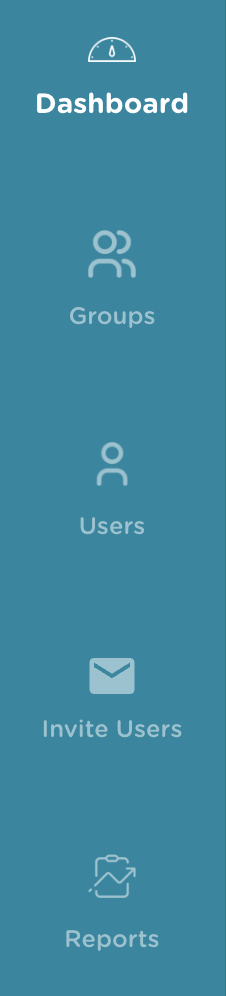
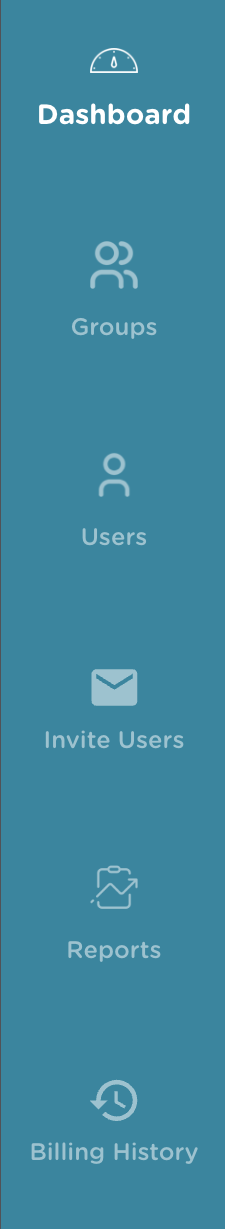
updated for new changes(user stats, billing history, billing settings)

diff --git a/docs/web-dashboard.md b/docs/web-dashboard.md
@@ -62,7 +62,7 @@ You can click on a group to get information on the group and the individuals wit
 
 The left menu bar:
 
-<img src="./images/web-dashboard/navBar.png" align="left" height="265"/>
+<img src="./images/web-dashboard/navBar.png" align="left" height="320"/>
 
     - Dashboard: Takes you back to the organizational dashboard
 
@@ -73,6 +73,8 @@ The left menu bar:
     - Invite Users: Links to a page where you can invite new users to the platform
 
     - Reports: Links to a data-rich page for detailed information on user HRV
+
+    - Billing History: Provides a record of all invoices associated with your organization’s subscription.
 
 <br clear="left"/>
 
@@ -181,28 +183,157 @@ A table listing all invited users along with their current status:
 
 You can monitor and manage invitations from this table at any time.
 
-## Action Buttons on the Users Page
+## Users Management Page
 
-On the far right of each row in the Users list, you'll find **Action buttons** that allow you to manage individual users:
+**Path:** Organization > Users  
+**Purpose:** This page is the central hub for administrators to view, manage, and analyze all users within their organization. It provides both high-level metrics and a detailed, actionable list for comprehensive user administration.  
+**Primary User Role:** Organization Administrators.
 
-- **Delete a User**  
-  Click the **trash can icon** to permanently remove a user from the organization.
+---
 
-- **Edit User Details / Set Admin Permissions**  
-  Click the **pencil icon** to open the **Edit User** screen, where you can:
+#### Page Overview
 
-  - Update user information (name, username, etc.).
-  - Grant **admin access** to the user by checking the **Admin** box.
+The Users page combines a dashboard of key metrics with a powerful, sortable, and searchable data table. It is the starting point for all user-related administrative tasks, from auditing activity to onboarding new members.
 
-  > Admin users have the ability to:
-  >
-  > - Add and manage users and groups
-  > - View HRV data across all users and groups in the organization
+---
+
+#### User Summary Metrics (Top Section)
+
+At the top of the page, you will see a quick overview of user counts in your organization:
+
+- **Active Users** – The number of users currently using the platform.
+- **Internal Users** – Members of your organization (e.g., staff, team).
+- **External Users** – Invited users outside your organization (e.g., clients, partners).
+- **Total Users** – Sum of internal and external users.
+
+#### Global Action Buttons
+
+- **IMPORT:** Initiates a bulk user import process, typically via a CSV file upload. This is efficient for onboarding large teams.
+- **+ ADD NEW:** Opens a dialog or form to manually create a single new user account.
+
+---
+
+#### Users Data Table
+
+The core of the page is a detailed table listing every user in the organization. The table can be sorted by clicking on column headers and is filtered using the search bar.
+
+**Search Bar:** The `Search users...` field allows you to quickly find users by their name, email, or other attributes.
+
+#### Users Table Columns
+
+| Column                 | Description                                                                                                                                                                                                       |
+| :--------------------- | :---------------------------------------------------------------------------------------------------------------------------------------------------------------------------------------------------------------- |
+| **Name**               | The full name of the user. This is the primary identifier.                                                                                                                                                        |
+| **Email**              | The user's primary email address. This field may be hidden for some users due to privacy settings.                                                                                                                |
+| **User type**          | The classification of the user. `Internal` denotes a standard employee, `Admin` is an internal user with elevated privileges, and `External` is a user from outside the organization (e.g., a client or partner). |
+| **Last activity**      | The timestamp of the user's most recent action in the system. A default date (e.g., 1 Jan 1900) indicates a user who has never been active.                                                                       |
+| **Last activity type** | The category of the last recorded action (e.g., "Login"). `N/A` indicates that no activity has been recorded for the user.                                                                                        |
+| **Signup date**        | The date the user account was officially created. This is a reliable metric for tracking onboarding.                                                                                                              |
+| **Payer**              | Defines the entity responsible for the user's billing. `Org` means the organization is billed, while `User` means the individual is responsible for payment.                                                      |
+| **Actions**            | Contains an icon menu for user management operations, such as **Edit** (to modify details and permissions) and **Delete** (to permanently remove the user).                                                       |
+
+---
+
+#### Common Use Cases
+
+#### 1. Onboarding a New Team
+
+**Goal:** Add a department of 20 new employees.
+**Action:** Use the **IMPORT** function to upload a CSV file with all user details instead of creating each account individually.
+
+#### 2. Auditing User Engagement
+
+**Goal:** Identify inactive accounts to free up licenses.
+**Action:** Scan the **Last activity** column for outdated timestamps or placeholder dates (`1 Jan 1900`). Use the **Actions** menu to deactivate or delete these users.
+
+#### 3. Managing External Collaboration
+
+**Goal:** Review and manage access for external partners.
+**Action:** Note the **EXTERNAL USERS** count. Filter the table by `External` user type to see all partners and review their **Last activity** to ensure access is still needed.
+
+#### 4. Promoting a User to Administrator
+
+**Goal:** Grant a trusted user full administrative capabilities.
+**Action:**
+
+1. Locate the user in the table.
+2. Click the **Edit** action in their row.
+3. In the Edit User form, check the **"Organization Admin"** option.
+4. Upon saving, their **User type** in this table will update from `Internal` to `Admin`.
+
+#### 5. Investigating Billing
+
+**Goal:** Understand who is responsible for paying for user licenses.
+**Action:** Review the **Payer** column. A high number of `Org` users means the company bears most costs. `User` indicates a bring-your-own-license model.
+
+---
+
+#### Visual Reference
 
 <div align=center>
-<img width="200" src="./images/web-dashboard/actionButtons.png"/>
-<img width="800" height="400" src="./images/web-dashboard/editUser.png"/>
+<img width="450" src="./images/web-dashboard/usersPage.png"/>
 </div>
+
+## Managing Users with Action Buttons
+
+On the far right of each row in the Users list, you'll find **Action buttons** that allow you to manage individual users.
+
+---
+
+#### **Delete a User**
+
+Click the **trash can icon** (![trash can icon]) to permanently remove a user from the organization.
+
+> **Warning:** This action is typically irreversible. Please confirm that you intend to delete the user before proceeding.
+
+---
+
+#### **Edit User Details / Set Permissions**
+
+Click the **pencil icon** (![pencil icon]) to open the **Edit User** screen. This allows you to modify the user's profile, define their access permissions, and configure billing settings.
+
+<div align="center">
+<img width="100" src="./images/web-dashboard/actionButtons.png""/>
+<img width="400" src="./images/web-dashboard/editUser.png"/>
+</div>
+
+The Edit User form is divided into several sections:
+
+#### **1. Personal Information**
+
+Update the core identifying details of the user.
+
+- **First Name & Last Name:** Modify the user's legal or preferred name.
+- **Date of Birth (DOB):** Edit the user's birth date in `MM/DD/YYYY` format.
+- **Gender:** Update the user's gender identity from the dropdown menu (e.g., Male, Female, Non-binary).
+
+#### **2. Access & Permissions**
+
+Control what the user can see and do within the system. This is critical for security and workflow management.
+
+- **Groups\*:** Assign the user to one or more groups (e.g., "Sales," "Customer Service"). Groups determine access to specific features, data, and dashboards. This is a required field.
+- **User Role:** Grant elevated permissions to the user.
+  - Check the **Organization Admin** box to make this user an administrator.
+  - > **⚠ Admin Capabilities:** Users with the Organization Admin role will have the ability to:
+    >
+    > - Add, edit, and manage all users and groups within the organization.
+    > - Access and view sensitive data (like HRV) across all users and groups.
+    > - Manage organization-wide settings and billing.
+
+#### **3. Billing Configuration**
+
+Designate the financial responsibility for the user's account.
+
+- **Choose who will be paying:** Select one of the following options:
+  - **Organization:** The company's central billing account will be charged for this user's subscription or usage.
+  - **User:** The individual user will be billed directly, typically via a personal payment method.
+
+#### **Completing the Action**
+
+- **UPDATE:** Click this button to validate and save all changes to the user's profile.
+- **CANCEL:** Click this button to discard any changes and return to the users list.
+
+---
 
 ## Groups Page
 
@@ -287,6 +418,11 @@ If you're a **Group Admin**, follow these steps to add a brand-new user directly
 
 > ✅ Group Admins can manage users directly within their assigned group. See [Creating New Users](#creating-new-users) for more details on user fields.
 
+<div align=center>
+<img width="450" src="./images/web-dashboard/groupUsersPage.png"/>
+<img width="350" src="./images/web-dashboard/addGroupUser.png"/>
+</div>
+
 ---
 
 #### 🏢 Adding New Users to a Group (For Organization Admins)
@@ -301,6 +437,11 @@ Organization Admins cannot add users directly from the org-level dashboard. Here
 6. Click **Submit**.
 
 > ℹ Note: Org Admins must **switch to a group's dashboard** before adding users. We recognize this is not ideal and are working on a future update for direct assignment without switching.
+
+<div align=center>
+<img width="450" src="./images/web-dashboard/usersPage.png"/>
+<img width="350" src="./images/web-dashboard/addUser.png"/>
+</div>
 
 ---
 
@@ -350,6 +491,155 @@ At the top bar of any page in the Organizational Dashboard, you'll find a dropdo
 - Selecting a different organization or group from the list will update the dashboard view to reflect the selected context.
 
 This feature is especially helpful for admins managing multiple groups or organizations under a single account.
+
+## Billing History Page
+
+The **Billing History** page provides a record of all invoices associated with your organization’s subscription. Admins can view past billing activity, check the current payment status, and download invoices for accounting or compliance purposes.
+
+**Accessing the Billing History Page**
+
+- From the Organizational Dashboard, click the **Billing History** icon in the left-hand navigation menu.
+
+<div align=center>
+<img width="750" src="./images/web-dashboard/billingHistory.png"/>
+</div>
+
+---
+
+#### Page Overview
+
+The page consists of two main sections:
+
+1. **User Summary Metrics (Top Section)**  
+   At the top of the page, you will see a quick overview of user counts in your organization:
+
+   - **Active Users** – The number of users currently using the platform.
+   - **Internal Users** – Members of your organization (e.g., staff, team).
+   - **External Users** – Invited users outside your organization (e.g., clients, partners).
+   - **Total Users** – Sum of internal and external users.
+
+   > These counts help you confirm that your subscription matches the number of users in your organization.
+
+2. **Billing Records Table (Main Section)**  
+   A detailed table lists all invoices with the following columns:
+
+   | Column             | Description                                                                                                                                                                                                   |
+   | ------------------ | ------------------------------------------------------------------------------------------------------------------------------------------------------------------------------------------------------------- |
+   | **Billing Email**  | The email address linked to the invoice recipient.                                                                                                                                                            |
+   | **Status**         | The current invoice status: <br> - **Paid**: The invoice has been paid.<br> - **Invoice Sent**: The invoice has been issued but is not yet paid.                                                              |
+   | **Invoice Number** | A unique identifier for the invoice.                                                                                                                                                                          |
+   | **Invoice Date**   | The date the invoice was generated.                                                                                                                                                                           |
+   | **Paid At**        | The date the invoice was paid (empty if unpaid).                                                                                                                                                              |
+   | **Amount**         | The total amount billed.                                                                                                                                                                                      |
+   | **Billing Start**  | The start date of the billing cycle.                                                                                                                                                                          |
+   | **Billing End**    | The end date of the billing cycle.                                                                                                                                                                            |
+   | **Actions**        | Depending on the invoice status, available options: <br> - **Download**: Download a copy of the invoice.<br> - **Pay Now**: Complete payment for unpaid invoices (only visible when status = _Invoice Sent_). |
+
+---
+
+#### Search and Filters
+
+- A search bar is available above the billing history table.
+- You can search invoices by **email, invoice number, or amount** to quickly locate records.
+
+---
+
+#### Billing Settings
+
+The **Billing Settings** button in the top-right corner of the billing history section allows admins to:
+
+- Update payment methods
+- Change the billing contact email
+- Adjust subscription plan details
+
+---
+
+#### Example Use Cases
+
+- **Finance Teams** – Download invoices for bookkeeping, tax filing, or audits.
+- **Admins** – Ensure all invoices are paid to prevent service interruption.
+- **Owners** – Cross-check active users against billing records to optimize costs.
+
+---
+
+#### Notes
+
+- Invoices marked **Invoice Sent** must be paid before the due date to maintain platform access.
+- Once payment is complete, the invoice status will automatically update to **Paid**, and the **Pay Now** button will be removed.
+
+## Billing Settings & Payments Page
+
+The **Billing & Payments** page allows organization admins to manage payment methods and update billing settings. From here, you can add or remove credit/debit cards, set a default payment method, and review the billing contact details linked to your account.
+
+**Accessing the Billing & Payments Page**
+
+- From the **Billing History** page, click on **Billing Settings**.
+- You will be redirected to the **Billing & Payments** page.
+
+<div align=center>
+<img width="750" src="./images/web-dashboard/billingSettings.png"/>
+</div>
+
+---
+
+#### Page Overview
+
+The Billing & Payments page consists of two main sections:
+
+1. **Payment Methods (Left Section)**  
+   This section shows the list of all saved cards associated with your organization’s account.
+
+   - Each saved card displays:
+     - Card network (Visa, Mastercard, Discover, etc.)
+     - Last four digits of the card
+     - Expiration date
+   - Available actions:
+     - **Remove** – Delete the card from the account.
+     - **Set as Default** – Assign the card as the primary method used for subscription payments.
+
+   **Add New Card Form**  
+   Below the saved cards list, admins can add a new payment method:
+
+   - **Card Number** – Full credit/debit card number.
+   - **Expiry Date** – Month and year of expiration.
+   - **CVC** – Card verification code.
+   - **Full Name** – Name of the cardholder.
+   - **Country/Region** – Billing country or region.
+   - **Address Line 1 & 2** – Billing address details.
+   - **City & Postal Code** – City and postal code linked to the card.
+   - **Set as Default Payment Method** (checkbox) – If checked, the new card will automatically be set as the primary payment method.
+
+   > Once the information is entered, click **Save Card** to store the new payment method or **Cancel** to discard.
+
+   <div align=center>
+   <img width="750" src="./images/web-dashboard/addNewCard.png"/>
+   </div>
+
+2. **Billing Settings (Right Section)**  
+   This section contains the organization’s billing details:
+
+   - **Billing Email** – Email address where invoices and payment notifications are sent.
+   - **Organization Name** – The registered organization linked to the subscription.
+   - **Billing Start Date** – The date when billing began for this organization.
+
+   _Note: Only the billing email can usually be updated. Organization name and start date are system-generated and cannot be changed manually._
+
+---
+
+#### Use Cases
+
+- **Finance Teams** – Maintain updated payment details to ensure uninterrupted service.
+- **Admins** – Replace expired or compromised cards quickly by adding new ones.
+- **Owners** – Control who receives invoices and financial communications by updating the billing email.
+
+---
+
+#### Notes
+
+- Only admins with billing permissions can access this page.
+- At least one valid payment method must be saved to keep the subscription active.
+- If the default card fails, the system will attempt to charge other saved cards.
+- Removing the last saved card may result in suspension of services until a new payment method is added.
 
 ## Lifetime Membership
 
